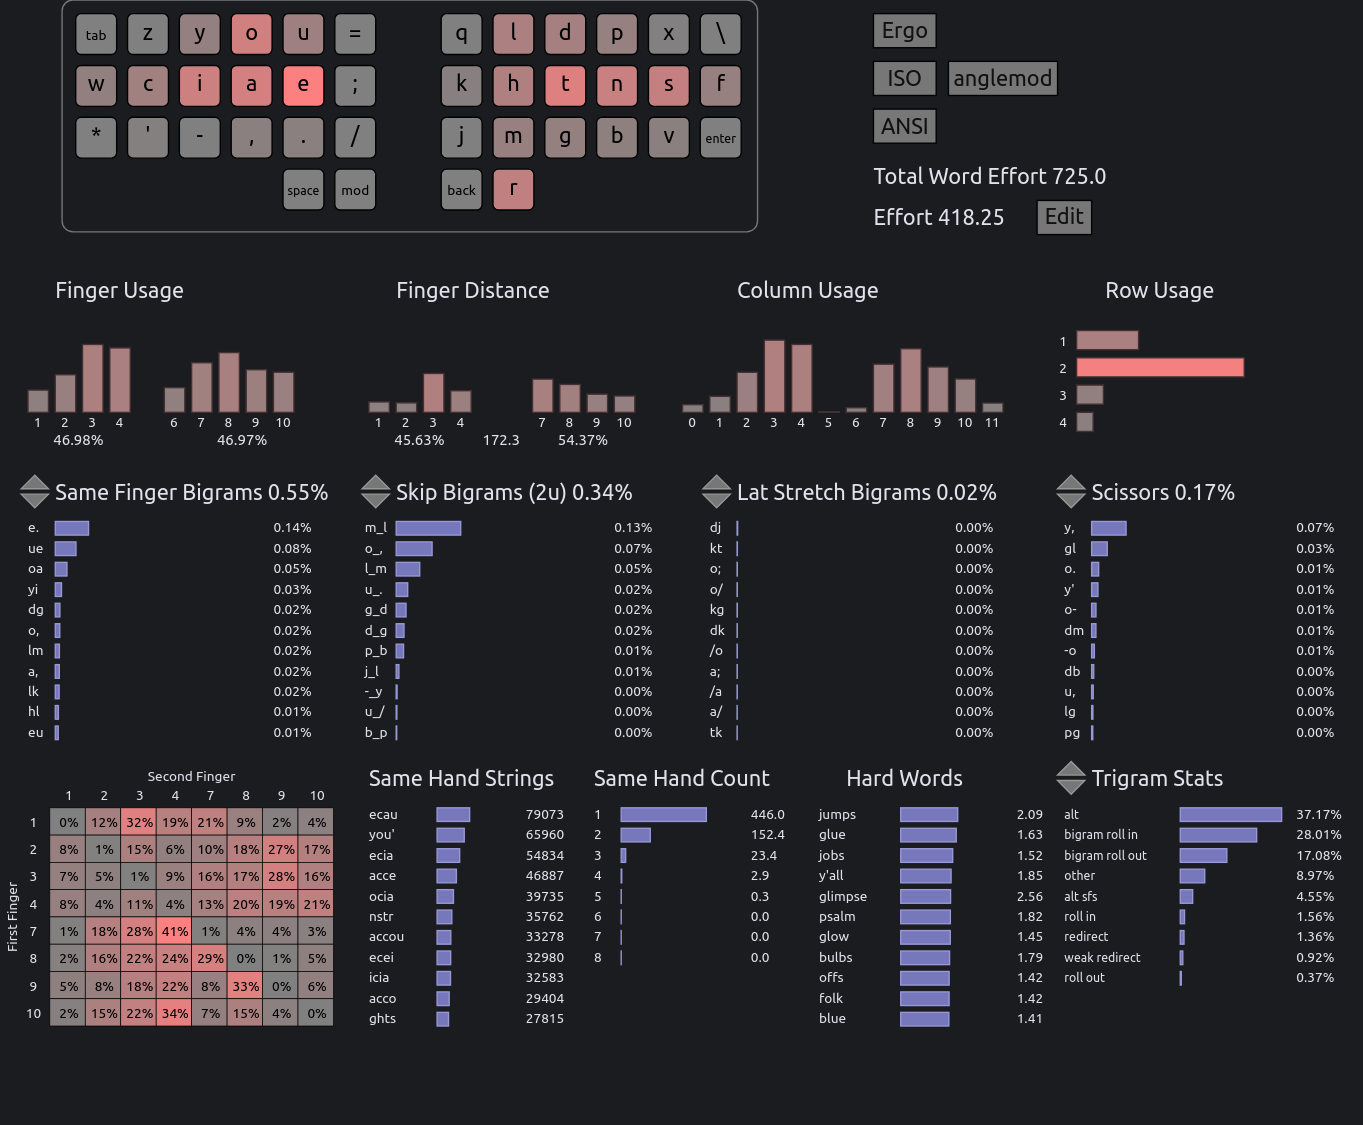
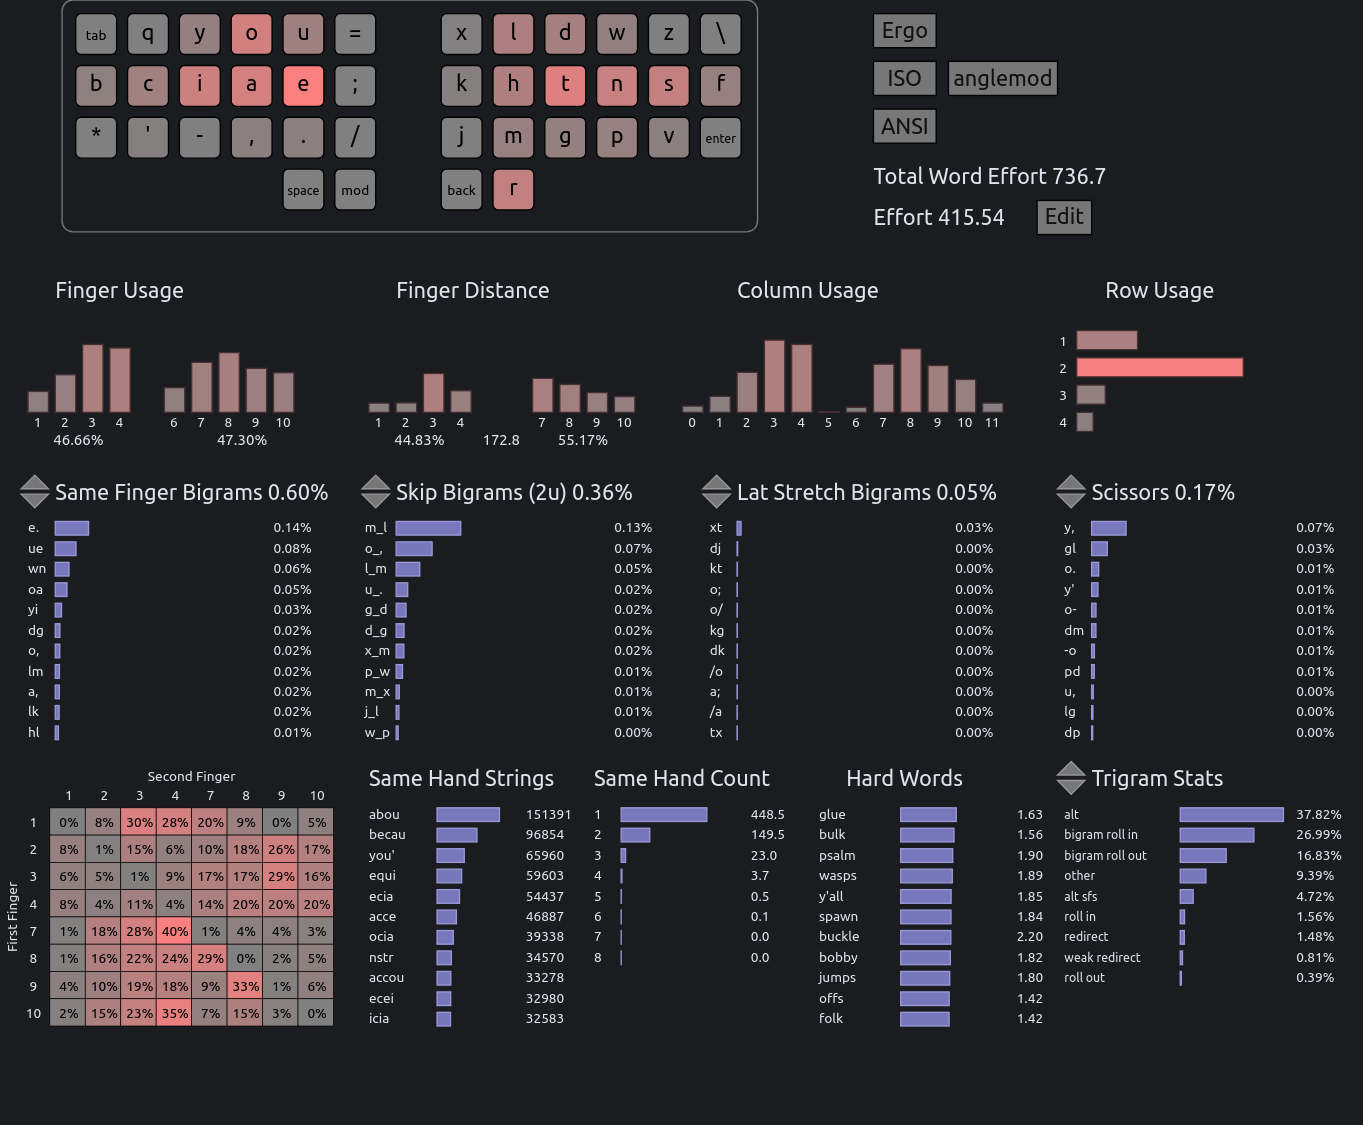
Enthium v12i candidate: ease left pinky's W burden
https://discord.com/channels/877392805654306816/1193051200938049546/1441584978944331858

diff --git a/README.md b/README.md
@@ -8,9 +8,9 @@ layout (YOU on the left hand) and the [Dvorak] layout (HTNS on the right hand)
 while optimizing punctuation placement for programming in the spirit of Engrammer,
 featuring HJKL and `,;` for Vim, `-=` for zooming, and `./` for filesystem paths.
 
-      z y o u = q l d p x
-    w c i a e ; k h t n s f
-      ' - , . / j m g b v
+      q y o u = x l d w z
+    b c i a e ; k h t n s f
+      ' - , . / j m g p v
                 r
 
 ![Heatmap of this layout by Valorance, adapted from Oxeylyzer.](heatmap.png)
@@ -30,10 +30,10 @@ featuring HJKL and `,;` for Vim, `-=` for zooming, and `./` for filesystem paths
 * The primary same-finger bigrams UE (0.08%), OA (0.05%), and YI (0.03%) can be
   raked down vertically, minimizing their impact on typing flow and performance.
 
-* Pinky load is distributed by frequency: heavy letters W (1.77%) and F (2.14%)
+* Pinky load is distributed by frequency: heavy letters B (1.44%) and F (2.14%)
   are close at hand on the home row's lateral pinky keys (CapsLock, Apostrophe);
   medium letters `'` (0.47%) and V (1.09%) are on the lower row pinky keys; and
-  light letters Z (0.09%) and X (0.02%) are on the upper row, which all together
+  light letters Q (0.10%) and Z (0.09%) are on the upper row, which all together
   help reduce strain for short pinky fingers or those [weakened by convention].
 
 * Apostrophe is away (on a different finger entirely) from YOU and I so that
@@ -62,38 +62,39 @@ and you'll see that Enthium is statistically among the best layouts there.
 
 Comparing with [conventional layout rankings][PGl]:
 
-* 0.02% LSBs — wins 🥇 first place; beats the entire table!
-* 0.55% SFBs — wins 🥈 second place; surpassed by Focal
-* 1.36% redirects — wins 🥇 first place; beats the entire table!
-* 0.17% scissors — fifth place; after ColemakDH, MTGAP, APTv3, Dvorak
-* 47.02% rolls — beats Focal, MTGAP, Graphite, Gallium, HandsDownNeu, Halmak
-* 3.31% pinky off — beats APTv3, Semimak, MTGAP, Dvorak, Recurva, Halmak, Engram
+* 0.05% LSBs — wins 🥇 first place; beats the entire table!
+* 0.60% SFBs — fourth place; after Focal, Recurva, Semimak
+* 1.48% redirects — wins 🥇 first place; beats the entire table!
+* 0.17% scissors — fifth place; after Dvorak, APTv3, ColemakDH, MTGAP
+* 45.77% rolls — beats Semimak, Gallium, Engram, HandsDownNeu, Halmak, Dvorak
+* 3.22% pinky off — beats APTv3, Semimak, MTGAP, Dvorak, Recurva, Halmak, Engram
 
 Comparing with [thumb-letter layout rankings][PGt]:
 
-* 0.02% LSBs — wins 🥇 first place; beats the entire table!
-* 0.55% SFBs — wins 🥈 second place; surpassed by Night
-* 1.36% redirects — wins 🥉 third place; after Vibranium, Nordrassil
-* 0.17% scissors — fourth place; after Maltron, Promethium, RSTHD
-* 47.02% rolls — fourth place; after Caster, Maltron, RSTHD
-* 3.31% pinky off — fourth place; after Night, Nordrassil, RSTHD
+* 0.05% LSBs — wins 🥇 first place; beats the entire table!
+* 0.60% SFBs — fourth place; after Night, Vibranium, Promethium
+* 1.48% redirects — wins 🥉 third place; after Nordrassil, Vibranium
+* 0.17% scissors — fourth place; after RSTHD, Promethium, Maltron
+* 45.77% rolls — beats Promethium and Nordrassil
+* 3.22% pinky off — fourth place; after RSTHD, Nordrassil, Night
 
 Enthium's SFBs can be neutralized by raking them down vertically:
 
-* 0.55% total SFBs - 0.34% rakeable SFBs = **0.21% _effective_ SFBs**
+* 0.60% total SFBs - 0.40% rakeable SFBs = **0.20% _effective_ SFBs**
   - `e.` (0.14%)
   - `ue` (0.08%)
+  - `wn` (0.06%)
   - `oa` (0.05%)
   - `yi` (0.03%)
   - `a,` (0.02%)
+  - `np` (0.01%)
   - `hm` (0.01%)
-  - `nb` (0.01%)
 
 These results were [computed with Cyanophage's Layout Analyzer][cNM] as follows.
 
 [![Statistics for Enthium from Cyanophage's Layout Analyzer](cyanophage.png)][cNM]
 
-[cNM]: https://cyanophage.github.io/playground.html?layout=zyou%3Dqldpx%5Cciae%3Bkhtnsf%27-%2C.%2Fjmgbv*rw&mode=ergo&lan=english&thumb=r
+[cNM]: https://cyanophage.github.io/playground.html?layout=qyou%3Dxldwz%5Cciae%3Bkhtnsf%27-%2C.%2Fjmgpv*rb&mode=ergo&lan=english&thumb=r
 [cPM]: https://cyanophage.github.io/playground.html?layout=fpdlx%3Buoybzsnthk%2Caeicqvwgmj-.%27%3D%2F%5Cr&mode=ergo&lan=english&thumb=l
 [cNG]: https://cyanophage.github.io/playground.html?layout=byou%27%3Bldwvzciea%2C.htsnqgxjk-%2Frmfp%5C%5E&mode=ergo&lan=english&thumb=l
 [cDV]: https://cyanophage.github.io/playground.html?layout=%27%2C.pyfgcrl%2Faoeuidhtns-%3Bqjkxbmwvz%5C%5E&mode=ergo&lan=english&thumb=l
@@ -102,22 +103,22 @@ These results were [computed with Cyanophage's Layout Analyzer][cNM] as follows.
 
 | Category  | Statistic           | *[Enthium][cNM]* | [Promethium][cPM] | [Engrammer][cNG] | [Dvorak][cDV] | [Colemak-DH][cCD] | [QWERTY][cQW] |
 | --------- | ------------------- | ---------------- | ----------------- | ---------------- | ------------- | ----------------- | ------------- |
-| Summary   | Total Word Effort   | *725.0*          | 732.1             | 899.5            | 1185.5        | 1047.9            | 2070.6        |
-| Summary   | Effort              | *418.25*         | 398.09            | 457.41           | 769.69        | 534.99            | 1258.15       |
-| Bigrams   | Same Finger Bigrams | *0.55%*          | 0.58%             | 0.99%            | 1.87%         | 0.91%             | 4.38%         |
-| Bigrams   | Skip Bigrams (2u)   | *0.34%*          | 0.36%             | 0.39%            | 0.45%         | 0.49%             | 1.43%         |
-| Bigrams   | Lat Stretch Bigrams | *0.02%*          | 0.24%             | 0.41%            | 0.80%         | 1.27%             | 4.55%         |
+| Summary   | Total Word Effort   | *736.7*          | 732.1             | 899.5            | 1185.5        | 1047.9            | 2070.6        |
+| Summary   | Effort              | *415.54*         | 398.09            | 457.41           | 769.69        | 534.99            | 1258.15       |
+| Bigrams   | Same Finger Bigrams | *0.60%*          | 0.58%             | 0.99%            | 1.87%         | 0.91%             | 4.38%         |
+| Bigrams   | Skip Bigrams (2u)   | *0.36%*          | 0.36%             | 0.39%            | 0.45%         | 0.49%             | 1.43%         |
+| Bigrams   | Lat Stretch Bigrams | *0.05%*          | 0.24%             | 0.41%            | 0.80%         | 1.27%             | 4.55%         |
 | Bigrams   | Scissors            | *0.17%*          | 0.11%             | 0.36%            | 0.08%         | 0.15%             | 1.46%         |
-| Trigrams  | Alt                 | *37.17%*         | 36.98%            | 35.62%           | 39.08%        | 25.43%            | 21.38%        |
-| Trigrams  | Alt SFS             | *4.55%*          | 5.27%             | 5.93%            | 5.85%         | 5.47%             | 5.42%         |
+| Trigrams  | Alt                 | *37.82%*         | 36.98%            | 35.62%           | 39.08%        | 25.43%            | 21.38%        |
+| Trigrams  | Alt SFS             | *4.72%*          | 5.27%             | 5.93%            | 5.85%         | 5.47%             | 5.42%         |
 | Trigrams  | Roll in             | *1.56%*          | 1.72%             | 1.82%            | 0.28%         | 1.50%             | 1.32%         |
-| Trigrams  | Roll out            | *0.37%*          | 0.29%             | 0.29%            | 0.27%         | 0.98%             | 1.48%         |
-| Trigrams  | Bigram roll in      | *28.01%*         | 29.17%            | 28.14%           | 23.51%        | 25.18%            | 20.38%        |
-| Trigrams  | Bigram roll out     | *17.08%*         | 14.56%            | 14.03%           | 15.14%        | 21.54%            | 17.58%        |
-| Trigrams  | Redirect            | *1.36%*          | 1.53%             | 2.26%            | 1.55%         | 5.33%             | 6.22%         |
-| Trigrams  | Weak redirect       | *0.92%*          | 0.87%             | 0.74%            | 0.64%         | 1.09%             | 0.44%         |
-| Trigrams  | Other               | *8.97%*          | 9.61%             | 11.17%           | 13.68%        | 13.49%            | 25.78%        |
-| Computed  | Pinky off           | *3.31%*          | 4.08%             | 5.70%            | 4.13%         | 0.78%             | 2.47%         |
+| Trigrams  | Roll out            | *0.39%*          | 0.29%             | 0.29%            | 0.27%         | 0.98%             | 1.48%         |
+| Trigrams  | Bigram roll in      | *26.99%*         | 29.17%            | 28.14%           | 23.51%        | 25.18%            | 20.38%        |
+| Trigrams  | Bigram roll out     | *16.83%*         | 14.56%            | 14.03%           | 15.14%        | 21.54%            | 17.58%        |
+| Trigrams  | Redirect            | *1.48%*          | 1.53%             | 2.26%            | 1.55%         | 5.33%             | 6.22%         |
+| Trigrams  | Weak redirect       | *0.81%*          | 0.87%             | 0.74%            | 0.64%         | 1.09%             | 0.44%         |
+| Trigrams  | Other               | *9.39%*          | 9.61%             | 11.17%           | 13.68%        | 13.49%            | 25.78%        |
+| Computed  | Pinky off           | *3.22%*          | 4.08%             | 5.70%            | 4.13%         | 0.78%             | 2.47%         |
 
 [rKL]: https://www.reddit.com/r/KeyboardLayouts/
 [PGr]: https://getreuer.info/posts/keyboards/alt-layouts/
